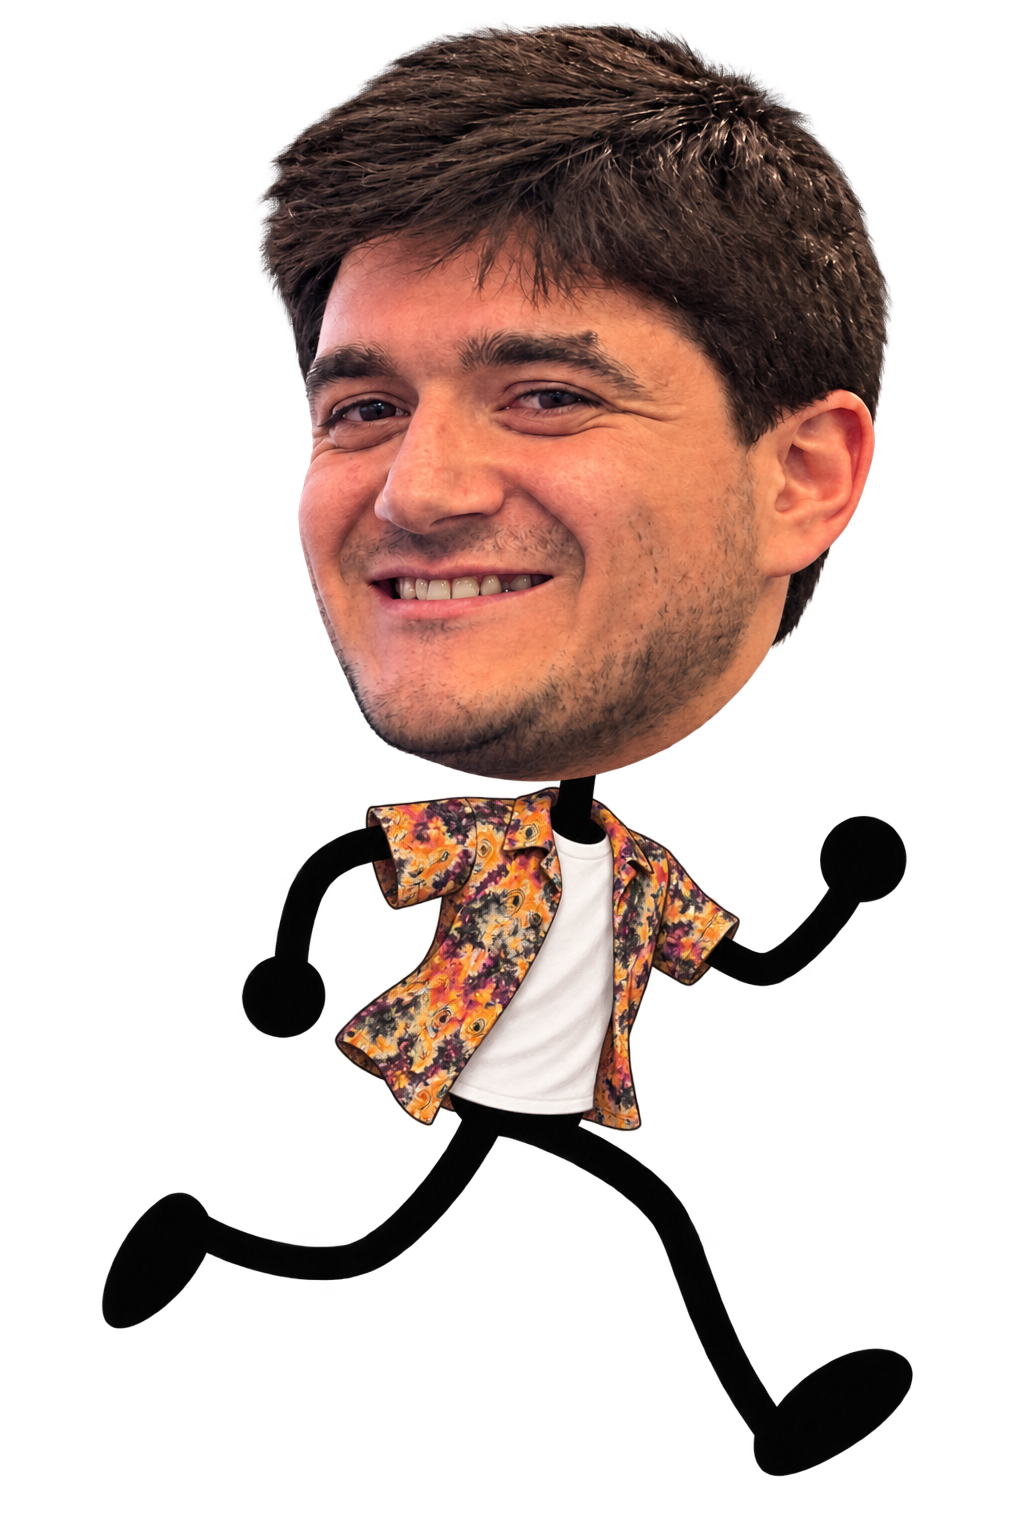
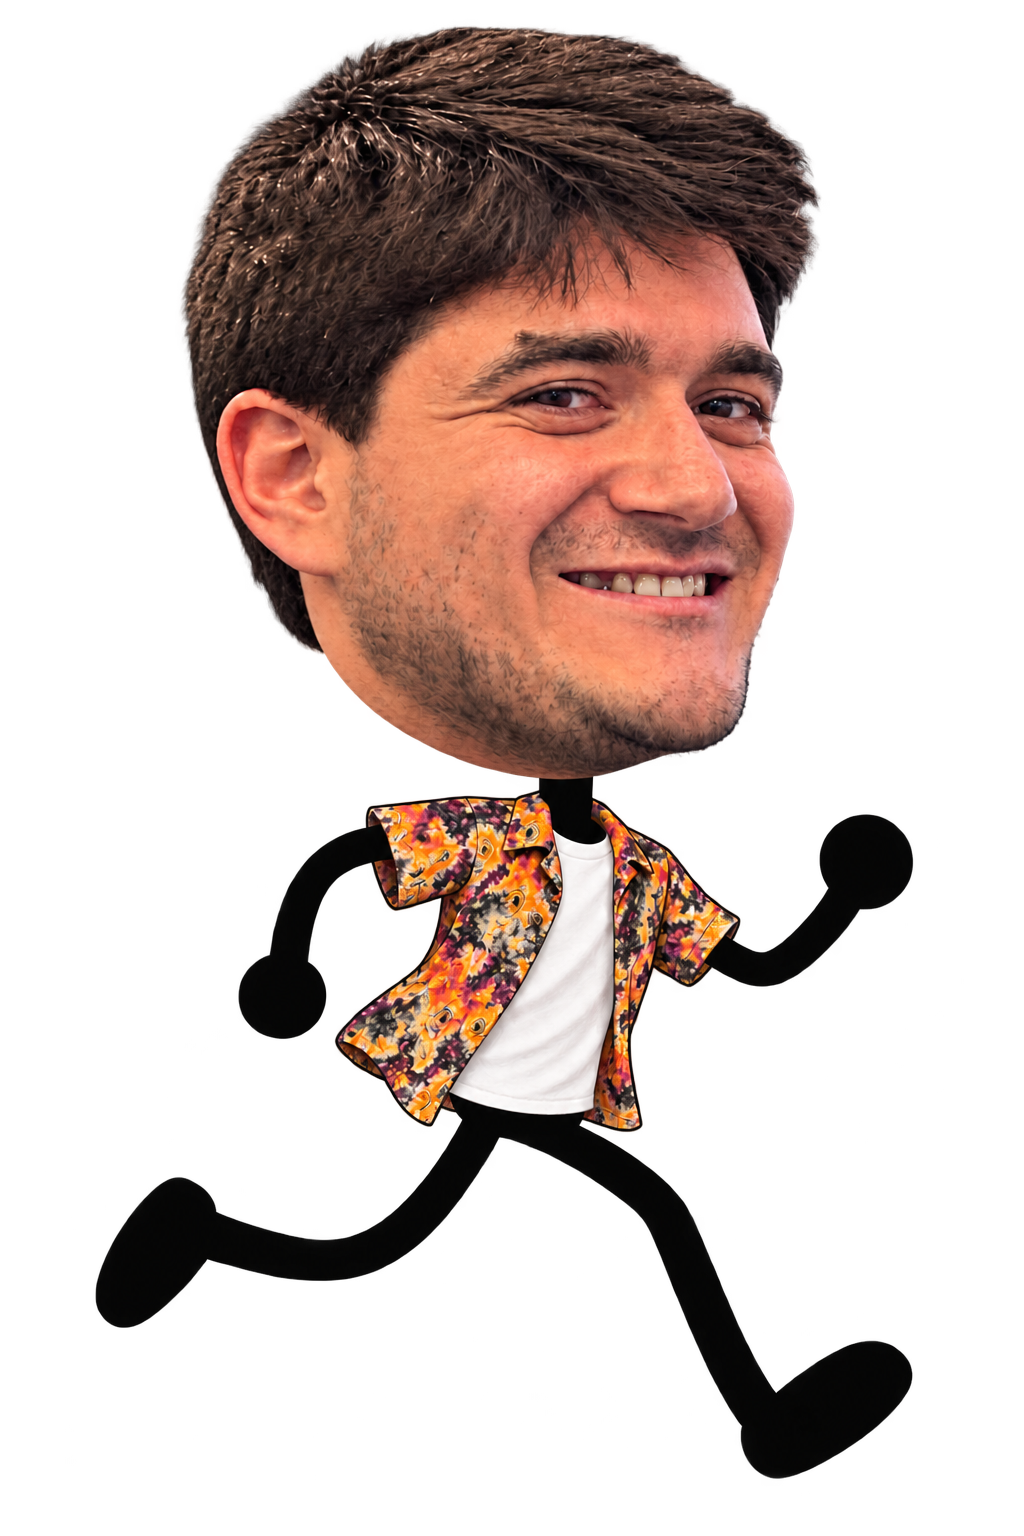
Fix runner direction and enlarge destination slot

diff --git a/update.css b/update.css
@@ -16,4 +16,12 @@ main{max-width:980px;padding:0 30px}.countdown-top{padding:48px 0 24px;text-alig
 }
 @media(max-width:380px){.toy-slot{width:140px}.toy-reel{font-size:22px}}
 @media(prefers-reduced-motion:reduce){.toy-slot{transition:none}}
-.runner > img{scale:-1 1}
+.runner > img{scale:1 1}
+.track-scene{height:300px}
+.destination img{width:215px;height:285px}
+@keyframes run-across{from{left:0}to{left:calc(100% - 325px)}}
+@media(max-width:560px){
+  .track-scene{height:260px}
+  .destination img{width:165px;height:245px}
+  @keyframes run-across{from{left:0}to{left:max(0px,calc(100% - 235px))}}
+}
